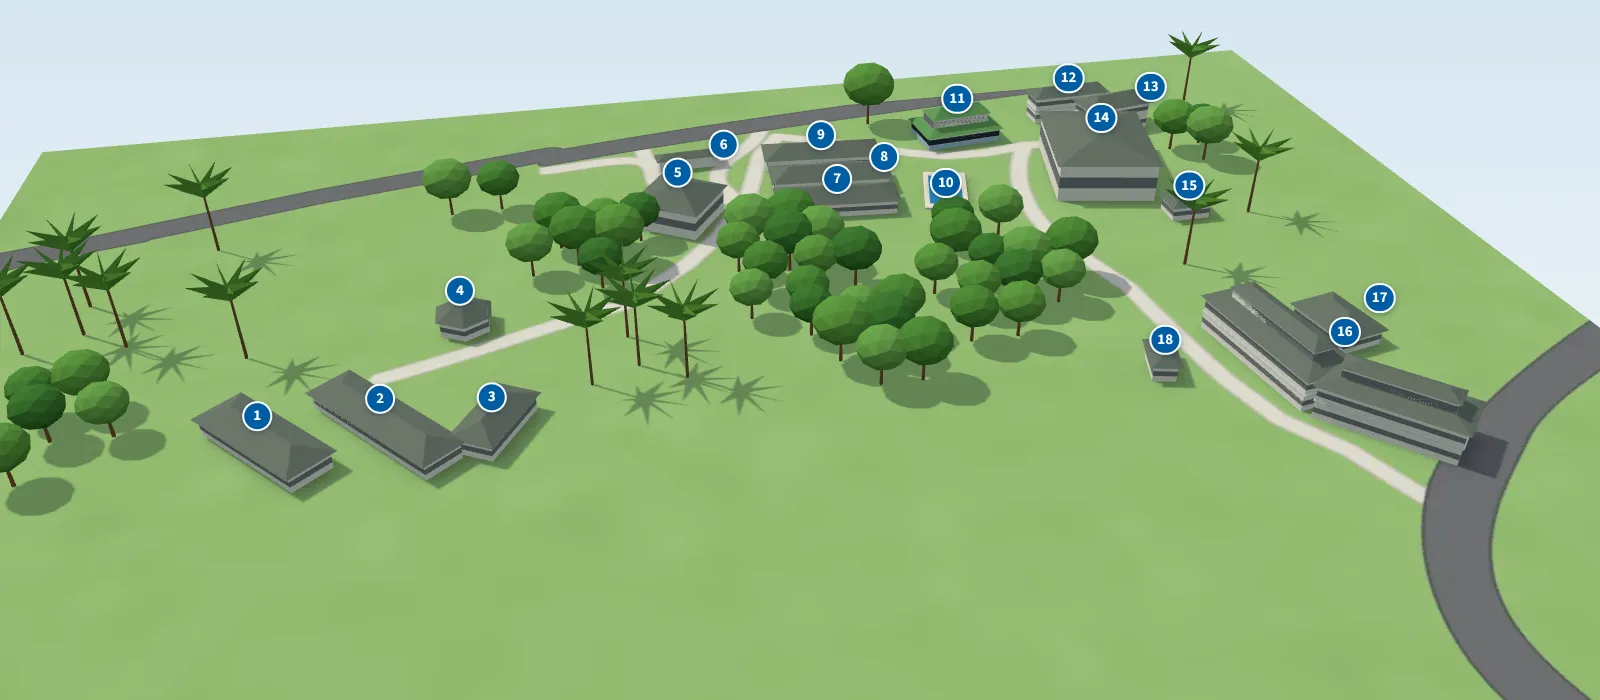
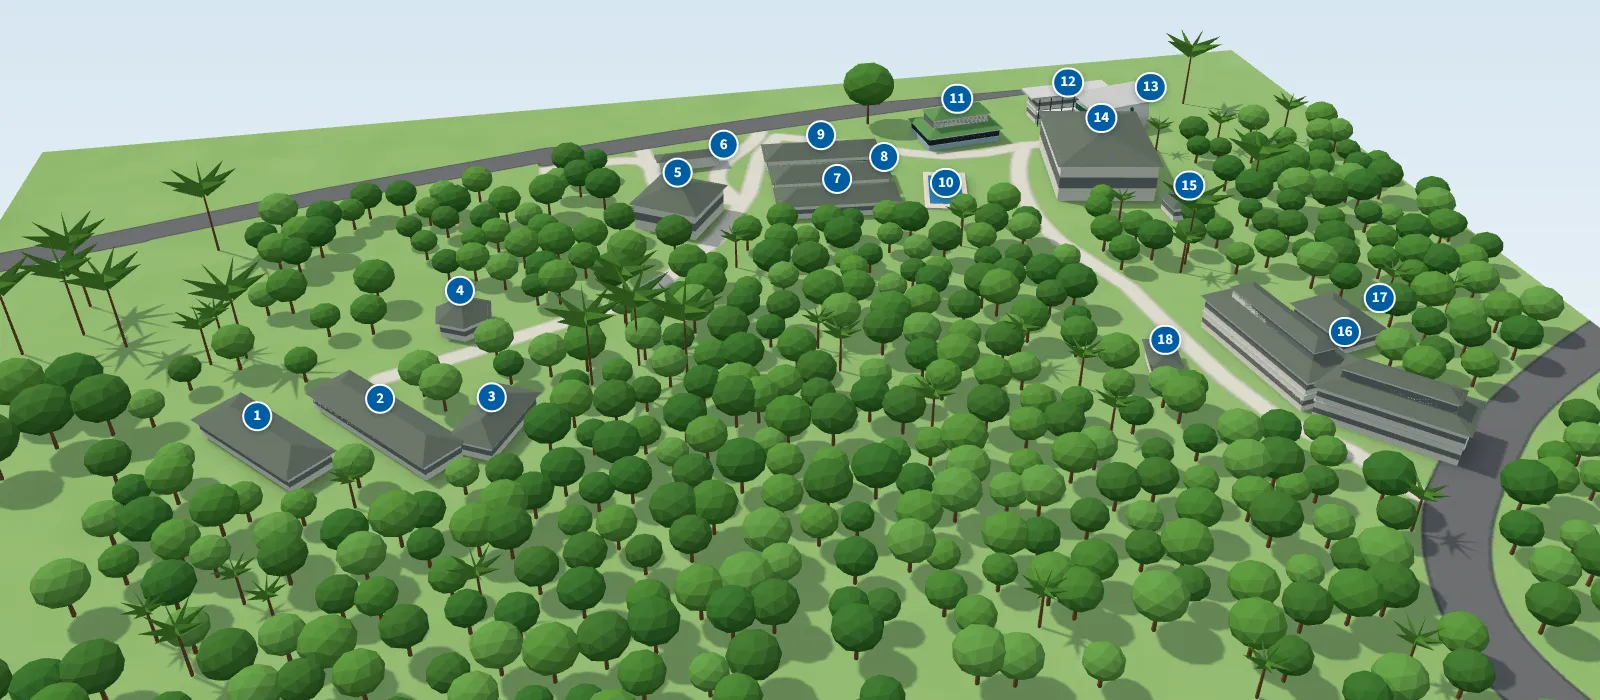
Maqueta: edificio nuevo 12-13 (losa volada, galerías y parasoles), pista cerrada y árboles según la vista satelital, lejos de los edificios
Claude-Session: https://claude.ai/code/session_019JQg5dNZcJURzjRuQj7kxS

diff --git a/src/assets/js/recorrido.js b/src/assets/js/recorrido.js
@@ -95,6 +95,67 @@ const losa = new THREE.MeshStandardMaterial({ color: colores.losa });
 
 const vidrio = new THREE.MeshStandardMaterial({ color: 0x33424f, roughness: 0.2, metalness: 0.3 });
 const celeste = new THREE.MeshStandardMaterial({ color: 0x9fd2ee, roughness: 0.8 });
+const vidrioVerde = new THREE.MeshStandardMaterial({ color: 0x2f7d76, roughness: 0.15, metalness: 0.35 });
+const acero = new THREE.MeshStandardMaterial({ color: 0x4a5158, roughness: 0.6, metalness: 0.3 });
+const parasol = new THREE.MeshStandardMaterial({ color: 0xf2f3f4, roughness: 0.5, side: THREE.DoubleSide });
+
+// Fachada principal de un volumen: el lado largo que mira al sur (hacia donde se ve la maqueta)
+function fachadaSur(contorno) {
+  const cx = contorno.reduce((s, p) => s + p[0], 0) / contorno.length, cz = contorno.reduce((s, p) => s + p[1], 0) / contorno.length;
+  let mejor = null;
+  for (let i = 0; i < contorno.length; i++) {
+    const a = contorno[i], b = contorno[(i + 1) % contorno.length];
+    const mx = (a[0] + b[0]) / 2, mz = (a[1] + b[1]) / 2, largo = Math.hypot(b[0] - a[0], b[1] - a[1]);
+    let nx = -(b[1] - a[1]) / largo, nz = (b[0] - a[0]) / largo;
+    if (nx * (mx - cx) + nz * (mz - cz) < 0) { nx = -nx; nz = -nz; }
+    const puntaje = largo * (0.6 + nz);
+    if (!mejor || puntaje > mejor.puntaje) mejor = { a, b, largo, nx, nz, puntaje };
+  }
+  return mejor;
+}
+// Galería: columnas de acero, balcón corrido con baranda y escalera exterior (edificio 12)
+function galeria(grupo, vol, alto, pisos) {
+  const f = fachadaSur(vol.contorno), fondo = 2.6, dx = (f.b[0] - f.a[0]) / f.largo, dz = (f.b[1] - f.a[1]) / f.largo;
+  const angulo = Math.atan2(-dz, dx);
+  const n = Math.max(2, Math.round(f.largo / 5));
+  for (let i = 0; i <= n; i++) {
+    const t = i / n, col = new THREE.Mesh(new THREE.BoxGeometry(0.35, alto + 0.6, 0.35), acero);
+    col.position.set(f.a[0] + dx * f.largo * t + f.nx * fondo, (alto + 0.6) / 2, f.a[1] + dz * f.largo * t + f.nz * fondo);
+    col.castShadow = true; grupo.add(col);
+  }
+  for (let p = 1; p < pisos; p++) {
+    const y = (alto / pisos) * p;
+    const balcon = new THREE.Mesh(new THREE.BoxGeometry(f.largo, 0.3, fondo + 0.3), losa);
+    balcon.position.set((f.a[0] + f.b[0]) / 2 + f.nx * fondo / 2, y, (f.a[1] + f.b[1]) / 2 + f.nz * fondo / 2);
+    balcon.rotation.y = angulo; balcon.castShadow = true; grupo.add(balcon);
+    const baranda = new THREE.Mesh(new THREE.BoxGeometry(f.largo, 0.12, 0.12), acero);
+    baranda.position.set((f.a[0] + f.b[0]) / 2 + f.nx * (fondo + 0.1), y + 1.1, (f.a[1] + f.b[1]) / 2 + f.nz * (fondo + 0.1));
+    baranda.rotation.y = angulo; grupo.add(baranda);
+  }
+  // escalera exterior en diagonal, a un tercio de la fachada
+  const largoEsc = Math.hypot(alto / pisos, 6);
+  const esc = new THREE.Mesh(new THREE.BoxGeometry(largoEsc, 0.25, 1.4), acero);
+  esc.position.set(f.a[0] + dx * f.largo * 0.62 + f.nx * (fondo + 1.1), alto / pisos / 2, f.a[1] + dz * f.largo * 0.62 + f.nz * (fondo + 1.1));
+  esc.rotation.set(0, angulo, Math.atan2(alto / pisos, 6));
+  esc.castShadow = true; grupo.add(esc);
+}
+// Parasoles curvos de lámina blanca frente a la fachada (edificio 13): paneles altos que se arquean hacia afuera
+function parasoles(grupo, vol, alto) {
+  const f = fachadaSur(vol.contorno), dx = (f.b[0] - f.a[0]) / f.largo, dz = (f.b[1] - f.a[1]) / f.largo;
+  const cuantos = 3, ancho = (f.largo / cuantos) * 0.82, altoP = alto * 0.9;
+  for (let i = 0; i < cuantos; i++) {
+    const g = new THREE.PlaneGeometry(ancho, altoP, 1, 10);
+    const p = g.attributes.position;
+    for (let k = 0; k < p.count; k++) { const t = p.getY(k) / altoP + 0.5; p.setZ(k, Math.sin(Math.PI * t) * 1.3); }
+    g.computeVertexNormals();
+    const panel = new THREE.Mesh(g, parasol);
+    const t = (i + 0.5) / cuantos;
+    panel.position.set(f.a[0] + dx * f.largo * t + f.nx * 1.0, alto * 0.52, f.a[1] + dz * f.largo * t + f.nz * 1.0);
+    panel.rotation.y = Math.atan2(f.nx, f.nz);
+    panel.castShadow = true; grupo.add(panel);
+  }
+}
+
 for (const e of datos.campus.edificios) {
   const grupo = new THREE.Group();
   const estilo = e.estilo || {};
@@ -120,10 +181,17 @@ for (const e of datos.campus.edificios) {
       for (let p = 1; p < e.pisos; p++) grupo.add(prisma(vol.contorno, 0.3, altoPiso * p, losa, 0.5));
       if (estilo.zocalo) grupo.add(prisma(vol.contorno, altoPiso * 0.36, 0, new THREE.MeshStandardMaterial({ color: estilo.zocalo, roughness: 0.8 }), 0.04));
       // ventanas: celosías grises (edificios nuevos) o ventanales de vidrio (biblioteca)
-      const ventanal = estilo.ventanas === "vidrio";
-      if (e.id !== 6) for (let p = 0; p < pisos; p++) grupo.add(prisma(vol.contorno, altoPiso * (ventanal ? 0.4 : 0.3), altoPiso * p + altoPiso * (ventanal ? 0.4 : 0.36), ventanal ? vidrio : celosia, 0.05));
+      const ventanal = estilo.ventanas === "vidrio" || estilo.ventanas === "vidrio_verde";
+      const cristal = estilo.ventanas === "vidrio_verde" ? vidrioVerde : vidrio;
+      if (e.id !== 6) for (let p = 0; p < pisos; p++) grupo.add(prisma(vol.contorno, altoPiso * (ventanal ? 0.4 : 0.3), altoPiso * p + altoPiso * (ventanal ? 0.4 : 0.36), ventanal ? cristal : celosia, 0.05));
     }
-    grupo.add(techo(e.techo, mat.techo));
+    if (e.techo.length) grupo.add(techo(e.techo, mat.techo));
+    if (estilo.forma_techo === "plano") for (const vol of e.volumenes) {   // losa plana volada
+      const l = prisma(vol.contorno, 0.6, e.alto, mat.techo, 3.2);
+      grupo.add(l);
+    }
+    if (estilo.galeria) e.volumenes.forEach((vol) => galeria(grupo, vol, e.alto, Math.max(e.pisos, 1)));
+    if (estilo.parasoles) e.volumenes.forEach((vol) => parasoles(grupo, vol, e.alto));
     if (estilo.cupula) {   // torrecita de ventilación sobre la cumbrera
       const torre = new THREE.Mesh(new THREE.BoxGeometry(2.6, 1.6, 2.6), celeste);
       torre.position.set(e.centro[0], e.cumbre + 0.5, e.centro[1]);
@@ -141,36 +209,43 @@ for (const e of datos.campus.edificios) {
   edificios.push(grupo);
 }
 
-// ---------- árboles y palmeras
-const hojas = [0x4f8f3a, 0x5f9e43, 0x3f7d34, 0x6aa84f].map((c) => new THREE.MeshLambertMaterial({ color: c, flatShading: true }));
-const tronco = new THREE.MeshLambertMaterial({ color: 0x7a5a3a });
-const hojaPalma = new THREE.MeshLambertMaterial({ color: 0x5b9a3c, side: THREE.DoubleSide, flatShading: true });
-datos.campus.arboles.forEach((a, i) => {
-  const [x, z] = a.p, r = Math.max(a.r, 2.2), g = new THREE.Group();
-  if (a.palma) {
-    const h = r * 2.2;
-    const tr = new THREE.Mesh(new THREE.CylinderGeometry(0.35, 0.55, h, 6), tronco);
-    tr.position.y = h / 2; g.add(tr);
-    for (let k = 0; k < 8; k++) {
-      const hoja = new THREE.Mesh(new THREE.ConeGeometry(r * 0.28, r * 1.25, 3, 1), hojaPalma);
-      hoja.scale.z = 0.25;
-      hoja.position.set(0, h, 0);
-      hoja.rotation.set(0, (k / 8) * Math.PI * 2 + i, 0);
-      hoja.rotateZ(-Math.PI / 2 + 0.45);
-      hoja.translateY(r * 0.55);
-      g.add(hoja);
+// ---------- árboles y palmeras (instancias: cientos de árboles en pocas llamadas de dibujo)
+{
+  const lista = datos.campus.arboles;
+  const redondos = lista.filter((a) => !a.palma), palmas = lista.filter((a) => a.palma);
+  const m4 = new THREE.Matrix4(), q = new THREE.Quaternion(), pos = new THREE.Vector3(), esc = new THREE.Vector3(), color = new THREE.Color();
+  const tronco = new THREE.MeshLambertMaterial({ color: 0x7a5a3a });
+  const tonos = [0x4f8f3a, 0x5f9e43, 0x3f7d34, 0x6aa84f, 0x467f36];
+  const azar = (i) => { const x = Math.sin(i * 12.9898) * 43758.5453; return x - Math.floor(x); };
+
+  const copas = new THREE.InstancedMesh(new THREE.IcosahedronGeometry(1, 1), new THREE.MeshLambertMaterial({ flatShading: true }), redondos.length);
+  const troncos = new THREE.InstancedMesh(new THREE.CylinderGeometry(0.4, 0.6, 1, 6), tronco, redondos.length + palmas.length);
+  redondos.forEach((a, i) => {
+    const r = Math.max(a.r, 2.2), h = r * 0.9;
+    m4.compose(pos.set(a.p[0], h / 2, a.p[1]), q.identity(), esc.set(1, h, 1)); troncos.setMatrixAt(i, m4);
+    q.setFromEuler(new THREE.Euler(0, azar(i) * 6.28, 0));
+    m4.compose(pos.set(a.p[0], h + r * 0.75, a.p[1]), q, esc.set(r, r * 0.8, r)); copas.setMatrixAt(i, m4);
+    copas.setColorAt(i, color.setHex(tonos[Math.floor(azar(i + 7) * tonos.length)]));
+  });
+  const HOJAS = 8;
+  const hojas = new THREE.InstancedMesh(new THREE.ConeGeometry(0.28, 1.25, 3, 1).translate(0, 0.62, 0),
+    new THREE.MeshLambertMaterial({ color: 0x5b9a3c, side: THREE.DoubleSide, flatShading: true }), palmas.length * HOJAS);
+  const ayuda = new THREE.Object3D();
+  palmas.forEach((a, i) => {
+    const r = Math.max(a.r, 2.2), h = r * 2.2;
+    m4.compose(pos.set(a.p[0], h / 2, a.p[1]), q.identity(), esc.set(0.75, h, 0.75)); troncos.setMatrixAt(redondos.length + i, m4);
+    for (let k = 0; k < HOJAS; k++) {
+      ayuda.position.set(a.p[0], h, a.p[1]);
+      ayuda.rotation.set(0, (k / HOJAS) * Math.PI * 2 + i, 0);
+      ayuda.rotateZ(-Math.PI / 2 + 0.45);
+      ayuda.scale.set(r, r, r * 0.25);
+      ayuda.updateMatrix();
+      hojas.setMatrixAt(i * HOJAS + k, ayuda.matrix);
     }
-  } else {
-    const h = r * 0.9;
-    const tr = new THREE.Mesh(new THREE.CylinderGeometry(0.4, 0.6, h, 6), tronco);
-    tr.position.y = h / 2; g.add(tr);
-    const copa = new THREE.Mesh(new THREE.IcosahedronGeometry(r, 1), hojas[i % hojas.length]);
-    copa.position.y = h + r * 0.75; copa.scale.y = 0.8; g.add(copa);
-  }
-  g.position.set(x, 0, z);
-  g.traverse((o) => { o.castShadow = true; });
-  escena.add(g);
-});
+  });
+  for (const m of [copas, troncos, hojas]) { m.castShadow = true; m.instanceMatrix.needsUpdate = true; escena.add(m); }
+  if (copas.instanceColor) copas.instanceColor.needsUpdate = true;
+}
 
 // ---------- cámara y controles
 const controles = new OrbitControls(camara, lienzo);

diff --git a/herramientas/campus3d.py b/herramientas/campus3d.py
@@ -2,7 +2,11 @@
 """Genera la maqueta 3D del campus a partir del croquis oficial «Distribución de Aulas».
 
 Uso:
-    python3 herramientas/campus3d.py croquis.pdf
+    python3 herramientas/campus3d.py croquis.pdf [satelite.png]
+
+Con la captura satelital de Google Maps (la del celular, sin girar), los árboles se colocan donde la
+foto muestra copa de árbol; sin ella, se toman los dibujos de árboles del croquis. La captura no se
+guarda en el repositorio (es imagen de Google): solo las posiciones que salen de ella.
 
 Necesita poppler (pdftoppm), OpenCV y Pillow. Produce:
     src/data/campus3d.json            edificios (contorno en metros, pisos), árboles y extensión del terreno
@@ -46,8 +50,12 @@ EDIFICIOS = [
     # ventanales corridos y zócalo azul claro
     {"id": 11, "rect": (1510, 1113, 128, 78, -6), "pisos": 1, "linterna": 0.55,
      "estilo": {"techo": "#5f9a58", "zocalo": "#a9d4ef", "ventanas": "vidrio", "cupula": True}},
-    {"id": 12, "rect": (1726, 1072, 128, 39, -2), "pisos": 2},
-    {"id": 13, "rect": (1786, 1130, 113, 51, -10), "pisos": 2},
+    # 12 y 13 (fotos): el edificio nuevo de dos pisos. Aulas con losa plana volada, galerías y escaleras
+    # exteriores; laboratorios con techo de una sola agua, ventanales verdes y parasoles curvos blancos.
+    {"id": 12, "rect": (1726, 1072, 128, 39, -2), "pisos": 2,
+     "estilo": {"forma_techo": "plano", "galeria": True, "techo": "#dcdfe2"}},
+    {"id": 13, "rect": (1786, 1130, 113, 51, -10), "pisos": 2,
+     "estilo": {"forma_techo": "una_agua", "parasoles": True, "ventanas": "vidrio_verde", "techo": "#d6dadd"}},
     {"id": 14, "rect": (1689, 1292, 151, 196, 12.5), "pisos": 1, "alto": 11},
     {"id": 15, "rect": (1770, 1450, 59, 41, 0), "pisos": 1},
     # Residencias: barra doblada del croquis, en dos alas; en la foto, techo de dos niveles con linternilla
@@ -110,6 +118,15 @@ def techo_cuatro_aguas(cx, cz, largo, ancho, g, base, alero=ALERO, pendiente=PEN
     return [v for t in caras for v in t], base + h
 
 
+def techo_una_agua(cx, cz, largo, ancho, g, base, alero=1.8, subida=None):
+    """Techo de una sola agua: plano inclinado, más alto en el lado norte (−v)."""
+    a, b = largo / 2 + alero, ancho / 2 + alero
+    subida = subida if subida is not None else ancho * 0.14
+    p = a_local(cx, cz, g)
+    e = [p(-a, -b, base + subida), p(a, -b, base + subida), p(a, b, base), p(-a, b, base)]
+    return [v for t in ((e[0], e[1], e[2]), (e[0], e[2], e[3])) for v in t], base + subida
+
+
 def techo_piramide(cx, cz, radio, base, lados=6):
     h = radio * 0.42
     borde = [[round(cx + (radio + ALERO) * math.cos(math.radians(30 + 360 / lados * i)), 2), base,
@@ -144,11 +161,59 @@ def volumenes(e, alto):
             t, c = techo_cuatro_aguas(m[0], m[1], L * 0.78, W * k, g, alto + alto_l, alero=0.9)
             techo += t
             cumbre = max(cumbre, c)
+        elif e.get("estilo", {}).get("forma_techo") == "plano":
+            cumbre = max(cumbre, alto + 0.6)   # la losa volada la dibuja la maqueta
+        elif e.get("estilo", {}).get("forma_techo") == "una_agua":
+            t, c = techo_una_agua(m[0], m[1], L, W, g, alto + 0.6)
+            techo += t
+            cumbre = max(cumbre, c)
         else:
             t, c = techo_cuatro_aguas(m[0], m[1], L, W, g, alto, pendiente=0.2 if L * W > 900 else PENDIENTE)
             techo += t
             cumbre = max(cumbre, c)
     return vol, techo, cumbre
+
+
+# Captura de Google Maps (celular, 1344 px de ancho) → croquis: ajuste afín con seis puntos comunes
+# (biblioteca, piscina, gimnasio, residencias, oficinas y centro de la pista), error menor a 9 m.
+SAT_ANCHO = 672
+SAT_A_CROQUIS = np.array([[2.5708, -0.4783, 668.36], [0.4804, 2.7018, -251.56]])
+SAT_VALIDA = (440, 1240)      # franja de la captura sin la barra de búsqueda ni el panel inferior
+SAT_BOTONES = [(570, 1050, 672, 1245)]   # botones de ubicación y rutas de la app
+
+
+def arboles_satelitales(ruta, rng, prohibido):
+    im = cv2.imread(str(ruta))
+    im = cv2.resize(im, (SAT_ANCHO, round(im.shape[0] * SAT_ANCHO / im.shape[1])), interpolation=cv2.INTER_AREA)
+    hsv = cv2.cvtColor(cv2.GaussianBlur(im, (0, 0), 2), cv2.COLOR_BGR2HSV).astype(int)
+    copa = (hsv[..., 2] < 85) & (hsv[..., 1] > 55) & (im[..., 1].astype(int) >= im[..., 2].astype(int))
+    copa = cv2.morphologyEx(copa.astype(np.uint8), cv2.MORPH_OPEN, np.ones((5, 5), np.uint8))
+    valida = np.zeros_like(copa)
+    valida[SAT_VALIDA[0]:SAT_VALIDA[1]] = 1
+    for x0, y0, x1, y1 in SAT_BOTONES:
+        valida[y0:y1, x0:x1] = 0
+    inversa = cv2.invertAffineTransform(SAT_A_CROQUIS)
+
+    def a_sat(x, y):
+        return inversa @ np.array([x, y, 1.0])
+
+    def cubre(x, y):
+        sx, sy = a_sat(x, y)
+        return 0 <= sx < copa.shape[1] and 0 <= sy < copa.shape[0] and valida[int(sy), int(sx)]
+
+    x0, y0, x1, y1 = RECORTE
+    paso = 54   # ≈ 13,5 m entre árboles
+    salida = []
+    for yy in range(y0 + 20, y1 - 20, paso):
+        for xx in range(x0 + 20 + (paso // 2 if (yy // paso) % 2 else 0), x1 - 20, paso):
+            x, y = xx + rng.uniform(-16, 16), yy + rng.uniform(-16, 16)
+            if not (0 <= x < prohibido.shape[1] and 0 <= y < prohibido.shape[0]) or prohibido[int(y), int(x)]:
+                continue
+            sx, sy = a_sat(x, y)
+            if not cubre(x, y) or not copa[int(sy), int(sx)]:
+                continue
+            salida.append({"p": a_metros(x, y), "r": round(rng.uniform(4.6, 7.2), 2), "palma": bool(rng.random() < 0.06)})
+    return {"arboles": salida, "cubre": cubre}
 
 
 def edificio_json(e):
@@ -160,7 +225,7 @@ def edificio_json(e):
             "cumbre": round(cumbre, 2), "volumenes": vol, "techo": [c for v in techo for c in v], "estilo": e.get("estilo", {})}
 
 
-def main(pdf):
+def main(pdf, sat=None):
     img = rasterizar(pdf).astype(int)
     R, G, B = img[..., 0], img[..., 1], img[..., 2]
     gris = (abs(R - G) < 6) & (abs(G - B) < 6)
@@ -179,11 +244,20 @@ def main(pdf):
 
     # --- pista de atletismo: la vuelta de calle gris claro al sur del campus
     n, lab, st, _ = cv2.connectedComponentsWithStats(calles)
-    pista = np.zeros_like(calles)
+    pista_cruda = np.zeros_like(calles)
     for i in range(1, n):
         if st[i, 1] > 2300 and st[i, 4] > 20000:
-            pista[lab == i] = 255
-    calles[pista > 0] = 0
+            pista_cruda[lab == i] = 255
+    calles[pista_cruda > 0] = 0
+    # El croquis deja el anillo abierto arriba y le pega el camino de acceso abajo. La pista real es un
+    # óvalo cerrado: se rehace como el borde de su envolvente convexa, y el acceso queda como calle.
+    acceso = pista_cruda.copy(); acceso[:2880] = 0
+    calles[acceso > 0] = 255
+    anillo = pista_cruda.copy(); anillo[2880:] = 0
+    cs, _ = cv2.findContours(anillo, cv2.RETR_EXTERNAL, cv2.CHAIN_APPROX_NONE)
+    lleno = np.zeros_like(anillo)
+    cv2.fillPoly(lleno, [cv2.convexHull(np.vstack(cs))], 255)
+    pista = cv2.subtract(lleno, cv2.erode(lleno, cv2.getStructuringElement(cv2.MORPH_ELLIPSE, (49, 49))))
     # el camino recto que baja de la pista a la carretera sigue siendo calle
     interior = np.zeros_like(pista)
     cs, _ = cv2.findContours(pista, cv2.RETR_CCOMP, cv2.CHAIN_APPROX_SIMPLE)
@@ -232,6 +306,13 @@ def main(pdf):
             cv2.fillPoly(ocupado, [np.array(pol, np.int32)], 1)
     n, lab, st, cen = cv2.connectedComponentsWithStats(verde)
     arboles = []
+    # distancia mínima entre árboles y edificios (≈ 9 m), para que la maqueta respire y se vean las fachadas
+    lejos_edificios = np.zeros_like(ocupado)
+    for e in EDIFICIOS:
+        for pol in contornos_px(e):
+            cv2.fillPoly(lejos_edificios, [np.array(pol, np.int32)], 1)
+    lejos_edificios = cv2.dilate(lejos_edificios, cv2.getStructuringElement(cv2.MORPH_ELLIPSE, (73, 73)))
+    satelital = arboles_satelitales(sat, rng, ocupado | lejos_edificios) if sat else None
     for i in range(1, n):
         area = st[i, 4]
         if area < 1500:
@@ -257,9 +338,13 @@ def main(pdf):
                         puntos.append((xx + rng.uniform(-10, 10), yy + rng.uniform(-10, 10), rng.uniform(28, 38)))
         for x, y, r in puntos:
             xi, yi = int(x), int(y)
-            if ocupado[yi, xi]:
+            if ocupado[yi, xi] or lejos_edificios[yi, xi]:
                 continue
+            if satelital is not None and not palma and satelital["cubre"](x, y):
+                continue   # donde hay foto satelital, mandan los árboles de la foto
             arboles.append({"p": a_metros(x, y), "r": round(min(r, 45) * ESCALA, 2), "palma": bool(palma)})
+    if satelital is not None:
+        arboles += satelital["arboles"]
 
     datos = {
         "nota": "Generado por herramientas/campus3d.py a partir del croquis oficial «Distribución de Aulas». Esquemático, no a escala.",
@@ -272,4 +357,4 @@ def main(pdf):
 
 
 if __name__ == "__main__":
-    main(sys.argv[1])
+    main(sys.argv[1], sys.argv[2] if len(sys.argv) > 2 else None)
